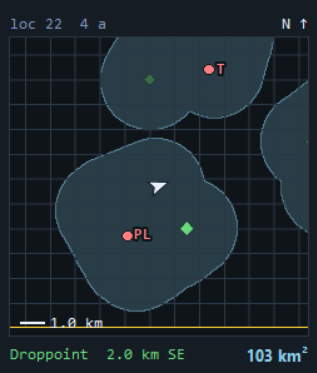
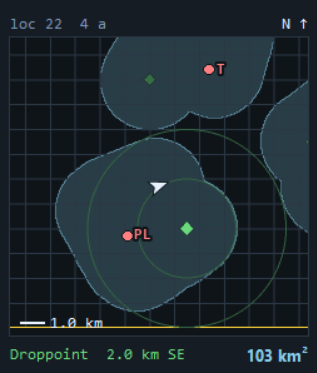
Ring the latest droppoint at one and two scan radii
Thin, dim circles at 2 and 4 km around where the ship is: a scale for the
scanner's reach, not a claim that anything was scanned. The docs picture is
grabbed opaque, since at 85% it carried the window behind it.

Claude-Session: https://claude.ai/code/session_01M6boCJULrSyUu3acaq6ken

diff --git a/rs_core/coverage.py b/rs_core/coverage.py
@@ -50,6 +50,9 @@ STAMP_M = 250.0
 # Grid lines, pinned to the droppoint so they move with the ground.
 GRID_M = 1000.0
 
+# Thin rings around the latest droppoint: one scan radius and two.
+RANGE_RINGS_M = (SCAN_RADIUS_M, 2 * SCAN_RADIUS_M)
+
 # How big the map is drawn, as a share of the game window's height, and the
 # limits either side - a laptop window should not get a stamp, a 4K screen
 # should not get a poster.
@@ -290,6 +293,7 @@ FILL = _mix(palette.BG, palette.ACCENT, 0.22)
 EDGE = _mix(palette.BG, palette.ACCENT, 0.85)
 # Earlier droppoints: still worth seeing, not where the ship is.
 DROP_OLD = _mix(palette.BG, palette.GOOD, 0.45)
+RING = _mix(palette.BG, palette.GOOD, 0.4)
 # Bookmarks: a colour nothing else on the map uses.
 MARK = palette.rgb(palette.ALERT)
 
@@ -340,6 +344,14 @@ def _draw_layer(mask, drops, side):
 
     # Where the mask ends - past it nothing is painted.
     draw.rectangle([0, 0, big - 1, big - 1], outline=palette.rgb(palette.WARN), width=SS)
+
+    # Scan range around the latest droppoint, one and two discs out: what the
+    # scanner covers from the ship, and from one disc further. A pixel wide
+    # after the reduce, and dim - a scale, not a claim.
+    dx, dy = at(*drops[-1])
+    for radius_m in RANGE_RINGS_M:
+        r = radius_m * scale
+        draw.ellipse([dx - r, dy - r, dx + r, dy + r], outline=RING, width=SS)
 
     for number, (mx, my) in enumerate(drops, 1):
         latest = number == len(drops)

diff --git a/rs_tests/test_coverage.py b/rs_tests/test_coverage.py
@@ -321,6 +321,21 @@ class TestRender:
                        if image.getpixel((i, j)) == coverage.MARK)
         assert red([(1500, 0, "T")]) > red([(1500, 0)]) + 10
 
+    def test_scan_range_rings_around_the_latest_droppoint(self):
+        side = 240
+        per_m = side / (2 * coverage.VIEW_M)
+        image = coverage.render(fresh(), 0, 0, None, side)
+
+        def ring_near(radius_m):
+            # Along a diagonal, off the grid lines, a pixel either side.
+            d = radius_m * per_m / math.sqrt(2)
+            # Reduced from twice the size, so blended with the background.
+            bg = palette.rgb(palette.BG)
+            return any(self.pixel(image, side / 2 + d + k, side / 2 - d - k) != bg
+                       for k in (-1, 0, 1))
+        assert ring_near(2000) and ring_near(4000)
+        assert not ring_near(3000)
+
     def test_the_picture_carries_the_bookmarks(self):
         cover = fresh()
         image = coverage.picture(cover.mask.copy(), list(cover.drops), marks=[(4000, 4000)])

diff --git a/rs_tests/make_docs_images.py b/rs_tests/make_docs_images.py
@@ -225,6 +225,9 @@ def minimap_image(root, scale):
     """
     was_rect = overlay._game_rect
     overlay._game_rect = lambda: (0, 0, 1920, 1080)
+    # Opaque for the picture: at the real 85% the grab carries whatever window
+    # is behind the map.
+    was_alpha, minimap.MAP_ALPHA = minimap.MAP_ALPHA, 1.0
     radius = 1738000.0
     per_degree = radius * math.pi / 180.0
     lat0, lon0 = 12.3400, -98.7700
@@ -269,6 +272,7 @@ def minimap_image(root, scale):
     shot.crop((0, 0, shot.width, shot.height - int(6 * scale))).save(path)
     minimap.stop()
     minimap._bookmarks = was_marks
+    minimap.MAP_ALPHA = was_alpha
     overlay._game_rect = was_rect
 
 if __name__ == "__main__":

diff --git a/CHANGELOG.md b/CHANGELOG.md
@@ -5,6 +5,8 @@
 **Changed**
 
 - The minimap is 85% opaque: the game shows faintly through it.
+- Two thin rings around the latest droppoint, at 2 and 4 km: one scan radius
+  and two. On the saved map picture too.
 
 ## 3.4.0
 
